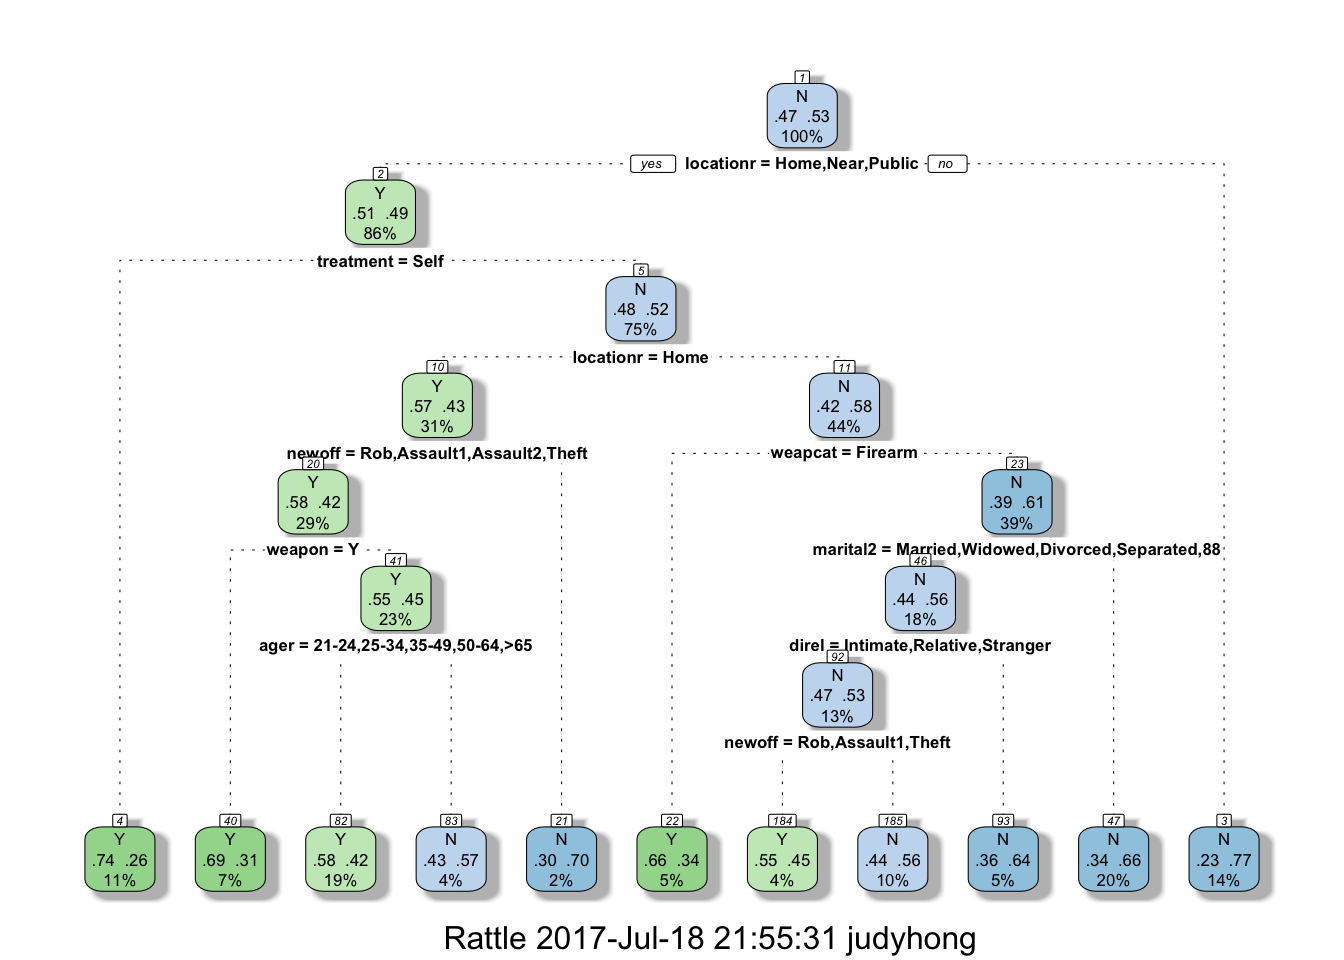
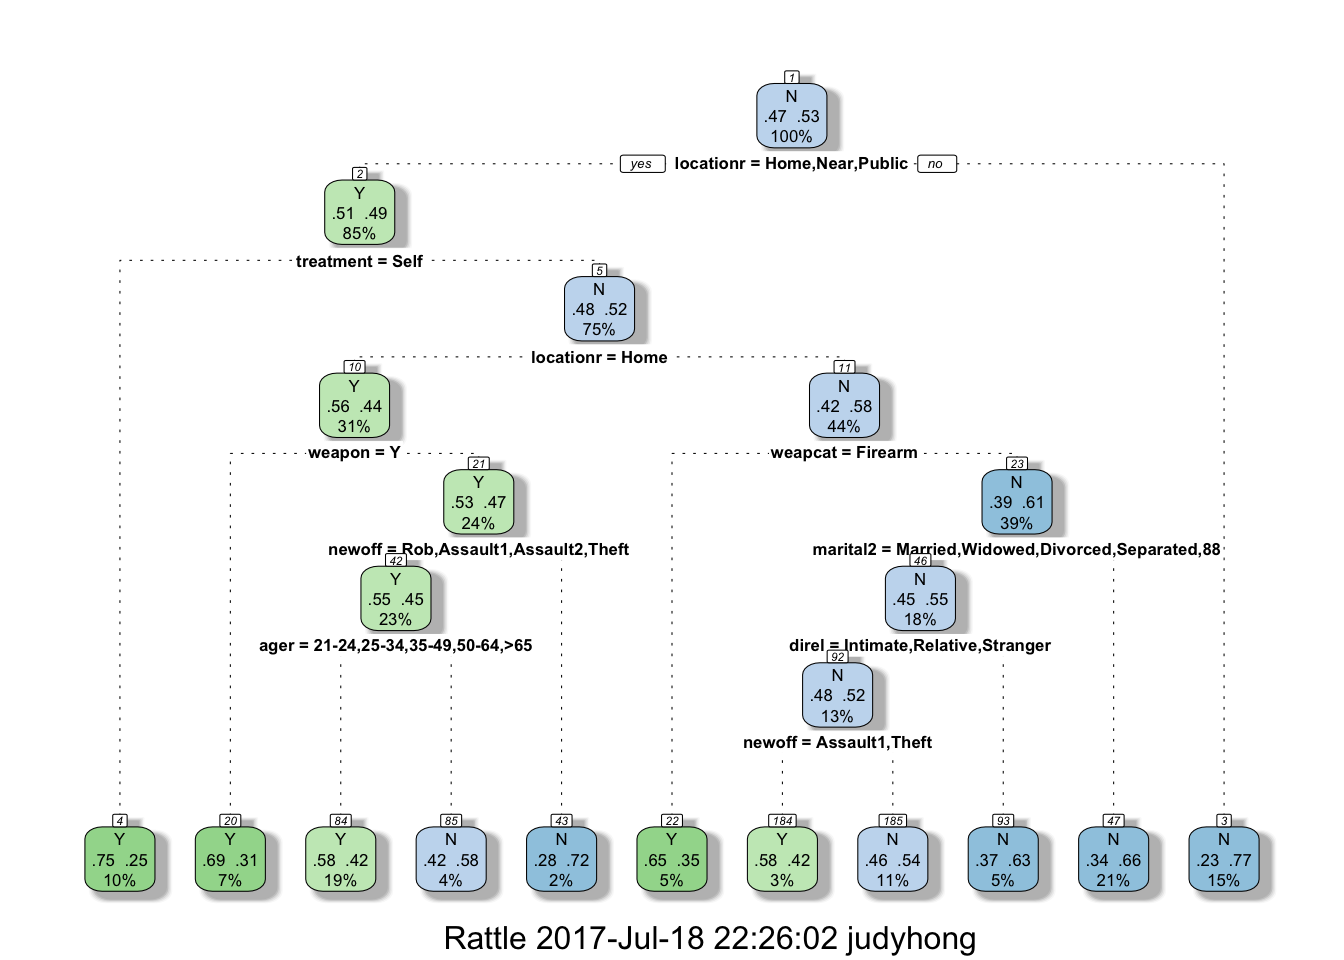
More changes

diff --git a/content/post/2017-07-18-police-yay-or-nay.html b/content/post/2017-07-18-police-yay-or-nay.html
@@ -1,5 +1,12 @@
-<!-- BLOGDOWN-HEAD -->
-<!-- /BLOGDOWN-HEAD -->
+---
+title: 'Police: Yay or Nay?'
+author: ~
+date: '2017-07-18'
+slug: police-yay-or-nay
+categories: ["Projects"]
+tags: []
+---
+
 
 
 <p>Fans of anime will be familiar with Gen Urobuchi’s <em>Psycho-Pass</em>. In an authoritarian future dystopia, aggregated personality data and background information are used to gauge the probability of a citizen committing a crime. With the help of omnipresent public sensors that continuously scan the mental states of every passing citizen, authorities are alerted whenever excessive crime probability ratings are detected, whereafter officers are dispatched to make premature arrests. This concept can also be found in <em>Minority Report</em> (which i watched on the plane to Cape Town).</p>
@@ -23,7 +30,7 @@
 <div id="explanatory-analysis" class="section level1">
 <h1>Explanatory Analysis</h1>
 <p>I begin by plotting each explanatory variable as a function of <strong>notify</strong>.</p>
-<p><img src="2017-07-18-police-yay-or-nay_files/figure-html/unnamed-chunk-2-1.png" width="672" /><img src="2017-07-18-police-yay-or-nay_files/figure-html/unnamed-chunk-2-2.png" width="672" /><img src="2017-07-18-police-yay-or-nay_files/figure-html/unnamed-chunk-2-3.png" width="672" /><img src="2017-07-18-police-yay-or-nay_files/figure-html/unnamed-chunk-2-4.png" width="672" /><img src="2017-07-18-police-yay-or-nay_files/figure-html/unnamed-chunk-2-5.png" width="672" /><img src="2017-07-18-police-yay-or-nay_files/figure-html/unnamed-chunk-2-6.png" width="672" /><img src="2017-07-18-police-yay-or-nay_files/figure-html/unnamed-chunk-2-7.png" width="672" /><img src="2017-07-18-police-yay-or-nay_files/figure-html/unnamed-chunk-2-8.png" width="672" /><img src="2017-07-18-police-yay-or-nay_files/figure-html/unnamed-chunk-2-9.png" width="672" /><img src="2017-07-18-police-yay-or-nay_files/figure-html/unnamed-chunk-2-10.png" width="672" /><img src="2017-07-18-police-yay-or-nay_files/figure-html/unnamed-chunk-2-11.png" width="672" /><img src="2017-07-18-police-yay-or-nay_files/figure-html/unnamed-chunk-2-12.png" width="672" /><img src="2017-07-18-police-yay-or-nay_files/figure-html/unnamed-chunk-2-13.png" width="672" /><img src="2017-07-18-police-yay-or-nay_files/figure-html/unnamed-chunk-2-14.png" width="672" /><img src="2017-07-18-police-yay-or-nay_files/figure-html/unnamed-chunk-2-15.png" width="672" /><img src="2017-07-18-police-yay-or-nay_files/figure-html/unnamed-chunk-2-16.png" width="672" /><img src="2017-07-18-police-yay-or-nay_files/figure-html/unnamed-chunk-2-17.png" width="672" /><img src="2017-07-18-police-yay-or-nay_files/figure-html/unnamed-chunk-2-18.png" width="672" /><img src="2017-07-18-police-yay-or-nay_files/figure-html/unnamed-chunk-2-19.png" width="672" /></p>
+<p><img src="/post/2017-07-18-police-yay-or-nay_files/figure-html/unnamed-chunk-2-1.png" width="672" /><img src="/post/2017-07-18-police-yay-or-nay_files/figure-html/unnamed-chunk-2-2.png" width="672" /><img src="/post/2017-07-18-police-yay-or-nay_files/figure-html/unnamed-chunk-2-3.png" width="672" /><img src="/post/2017-07-18-police-yay-or-nay_files/figure-html/unnamed-chunk-2-4.png" width="672" /><img src="/post/2017-07-18-police-yay-or-nay_files/figure-html/unnamed-chunk-2-5.png" width="672" /><img src="/post/2017-07-18-police-yay-or-nay_files/figure-html/unnamed-chunk-2-6.png" width="672" /><img src="/post/2017-07-18-police-yay-or-nay_files/figure-html/unnamed-chunk-2-7.png" width="672" /><img src="/post/2017-07-18-police-yay-or-nay_files/figure-html/unnamed-chunk-2-8.png" width="672" /><img src="/post/2017-07-18-police-yay-or-nay_files/figure-html/unnamed-chunk-2-9.png" width="672" /><img src="/post/2017-07-18-police-yay-or-nay_files/figure-html/unnamed-chunk-2-10.png" width="672" /><img src="/post/2017-07-18-police-yay-or-nay_files/figure-html/unnamed-chunk-2-11.png" width="672" /><img src="/post/2017-07-18-police-yay-or-nay_files/figure-html/unnamed-chunk-2-12.png" width="672" /><img src="/post/2017-07-18-police-yay-or-nay_files/figure-html/unnamed-chunk-2-13.png" width="672" /><img src="/post/2017-07-18-police-yay-or-nay_files/figure-html/unnamed-chunk-2-14.png" width="672" /><img src="/post/2017-07-18-police-yay-or-nay_files/figure-html/unnamed-chunk-2-15.png" width="672" /><img src="/post/2017-07-18-police-yay-or-nay_files/figure-html/unnamed-chunk-2-16.png" width="672" /><img src="/post/2017-07-18-police-yay-or-nay_files/figure-html/unnamed-chunk-2-17.png" width="672" /><img src="/post/2017-07-18-police-yay-or-nay_files/figure-html/unnamed-chunk-2-18.png" width="672" /><img src="/post/2017-07-18-police-yay-or-nay_files/figure-html/unnamed-chunk-2-19.png" width="672" /></p>
 <p>It appears that all the explanatory variables have some influence on <strong>notify</strong> except for <strong>popsize</strong>, <strong>newcrime</strong> and <strong>year</strong>. These variables will be excluded from all subsequent analyses.</p>
 </div>
 <div id="hypothesis" class="section level1">
@@ -51,95 +58,95 @@ summary(fit)</code></pre>
 ## 
 ## Deviance Residuals: 
 ##     Min       1Q   Median       3Q      Max  
-## -2.3449  -1.0755   0.5532   1.0270   2.3378  
+## -2.3303  -1.0819   0.5588   1.0285   2.3462  
 ## 
 ## Coefficients: (2 not defined because of singularities)
 ##                     Estimate Std. Error z value Pr(&gt;|z|)    
-## (Intercept)         1.551826   0.160217   9.686  &lt; 2e-16 ***
-## genderFemale       -0.271018   0.034549  -7.844 4.35e-15 ***
-## race1rBlack        -0.153335   0.050242  -3.052  0.00227 ** 
-## race1rOther         0.199078   0.072623   2.741  0.00612 ** 
-## ager15-17          -0.380550   0.073480  -5.179 2.23e-07 ***
-## ager18-20          -0.372987   0.077960  -4.784 1.72e-06 ***
-## ager21-24          -0.534028   0.078004  -6.846 7.58e-12 ***
-## ager25-34          -0.761969   0.073702 -10.339  &lt; 2e-16 ***
-## ager35-49          -0.698626   0.076073  -9.184  &lt; 2e-16 ***
-## ager50-64          -0.597322   0.085280  -7.004 2.48e-12 ***
-## ager&gt;65            -0.461164   0.127257  -3.624  0.00029 ***
-## marital2Married    -0.300153   0.049520  -6.061 1.35e-09 ***
-## marital2Widowed    -0.314888   0.130291  -2.417  0.01566 *  
-## marital2Divorced   -0.174928   0.058271  -3.002  0.00268 ** 
-## marital2Separated   0.072271   0.075020   0.963  0.33537    
-## marital288         -0.582028   0.308865  -1.884  0.05951 .  
-## hincome7500-14999  -0.047129   0.064568  -0.730  0.46544    
-## hincome15000-24999  0.137027   0.063043   2.174  0.02974 *  
-## hincome25000-34999  0.003229   0.065072   0.050  0.96042    
-## hincome35000-49999 -0.040154   0.064106  -0.626  0.53107    
-## hincome50000-74999  0.077727   0.066129   1.175  0.23984    
-## hincome&gt;75000       0.116189   0.066452   1.748  0.08038 .  
-## regionMidwest      -0.047333   0.051530  -0.919  0.35834    
-## regionSouth        -0.106186   0.049434  -2.148  0.03171 *  
-## regionWest          0.062218   0.051024   1.219  0.22269    
-## msaSuburban        -0.118969   0.035335  -3.367  0.00076 ***
-## msaRural           -0.125085   0.051750  -2.417  0.01565 *  
-## direlRelative      -0.098923   0.072447  -1.365  0.17211    
-## direlAcquain       -0.035553   0.055657  -0.639  0.52296    
-## direlStranger      -0.299170   0.058404  -5.122 3.02e-07 ***
-## weaponN             0.232098   0.093646   2.478  0.01320 *  
-## weapcatFirearm     -0.652598   0.079664  -8.192 2.57e-16 ***
-## weapcatKnife       -0.019816   0.080091  -0.247  0.80458    
+## (Intercept)         1.681846   0.160513  10.478  &lt; 2e-16 ***
+## genderFemale       -0.244093   0.034467  -7.082 1.42e-12 ***
+## race1rBlack        -0.155207   0.050206  -3.091  0.00199 ** 
+## race1rOther         0.213451   0.071863   2.970  0.00298 ** 
+## ager15-17          -0.418004   0.073751  -5.668 1.45e-08 ***
+## ager18-20          -0.419685   0.077751  -5.398 6.75e-08 ***
+## ager21-24          -0.553356   0.078080  -7.087 1.37e-12 ***
+## ager25-34          -0.811630   0.073532 -11.038  &lt; 2e-16 ***
+## ager35-49          -0.731066   0.075850  -9.638  &lt; 2e-16 ***
+## ager50-64          -0.646124   0.084493  -7.647 2.06e-14 ***
+## ager&gt;65            -0.566580   0.124971  -4.534 5.80e-06 ***
+## marital2Married    -0.329264   0.049152  -6.699 2.10e-11 ***
+## marital2Widowed    -0.340034   0.128091  -2.655  0.00794 ** 
+## marital2Divorced   -0.179173   0.057941  -3.092  0.00199 ** 
+## marital2Separated   0.105011   0.074931   1.401  0.16108    
+## marital288         -0.604095   0.301250  -2.005  0.04493 *  
+## hincome7500-14999  -0.061207   0.064228  -0.953  0.34061    
+## hincome15000-24999  0.134294   0.062912   2.135  0.03279 *  
+## hincome25000-34999  0.001899   0.065167   0.029  0.97675    
+## hincome35000-49999 -0.023227   0.064174  -0.362  0.71740    
+## hincome50000-74999  0.062432   0.066031   0.945  0.34441    
+## hincome&gt;75000       0.127329   0.066416   1.917  0.05522 .  
+## regionMidwest      -0.054561   0.051488  -1.060  0.28929    
+## regionSouth        -0.093881   0.049452  -1.898  0.05764 .  
+## regionWest          0.043324   0.050901   0.851  0.39468    
+## msaSuburban        -0.100502   0.035318  -2.846  0.00443 ** 
+## msaRural           -0.146621   0.051638  -2.839  0.00452 ** 
+## direlRelative      -0.006112   0.072953  -0.084  0.93324    
+## direlAcquain       -0.046835   0.055944  -0.837  0.40250    
+## direlStranger      -0.318311   0.058582  -5.434 5.52e-08 ***
+## weaponN             0.131589   0.094475   1.393  0.16367    
+## weapcatFirearm     -0.668823   0.079689  -8.393  &lt; 2e-16 ***
+## weapcatKnife       -0.068536   0.080300  -0.854  0.39338    
 ## weapcatOther              NA         NA      NA       NA    
-## newoffRob          -1.097637   0.096911 -11.326  &lt; 2e-16 ***
-## newoffAssault1     -0.968889   0.108995  -8.889  &lt; 2e-16 ***
-## newoffAssault2     -0.767632   0.080808  -9.499  &lt; 2e-16 ***
-## newoffTheft        -0.956148   0.150990  -6.333 2.41e-10 ***
-## injuryY            -1.263060   0.054802 -23.048  &lt; 2e-16 ***
-## treatmentY          0.866081   0.063665  13.604  &lt; 2e-16 ***
+## newoffRob          -1.075517   0.097327 -11.051  &lt; 2e-16 ***
+## newoffAssault1     -1.023701   0.109611  -9.339  &lt; 2e-16 ***
+## newoffAssault2     -0.770786   0.080947  -9.522  &lt; 2e-16 ***
+## newoffTheft        -0.980545   0.150011  -6.536 6.30e-11 ***
+## injuryY            -1.287219   0.054942 -23.429  &lt; 2e-16 ***
+## treatmentY          0.894670   0.063915  13.998  &lt; 2e-16 ***
 ## treatmentSelf             NA         NA      NA       NA    
-## locationrNear       0.528345   0.056266   9.390  &lt; 2e-16 ***
-## locationrPublic     0.618025   0.041508  14.889  &lt; 2e-16 ***
-## locationrSchool     1.146434   0.064365  17.811  &lt; 2e-16 ***
+## locationrNear       0.492533   0.056302   8.748  &lt; 2e-16 ***
+## locationrPublic     0.637307   0.041678  15.291  &lt; 2e-16 ***
+## locationrSchool     1.118915   0.063789  17.541  &lt; 2e-16 ***
 ## ---
 ## Signif. codes:  0 &#39;***&#39; 0.001 &#39;**&#39; 0.01 &#39;*&#39; 0.05 &#39;.&#39; 0.1 &#39; &#39; 1
 ## 
 ## (Dispersion parameter for binomial family taken to be 1)
 ## 
-##     Null deviance: 26210  on 18946  degrees of freedom
-## Residual deviance: 23378  on 18905  degrees of freedom
-## AIC: 23462
+##     Null deviance: 26201  on 18946  degrees of freedom
+## Residual deviance: 23410  on 18905  degrees of freedom
+## AIC: 23494
 ## 
 ## Number of Fisher Scoring iterations: 4</code></pre>
 <p>Not all the factors are relevant to this model, so I fit a more parisimonious model using stepwise regression:</p>
 <pre class="r"><code>fit.red = stepAIC(fit, direction = &quot;both&quot;)</code></pre>
-<pre><code>## Start:  AIC=23462.17
+<pre><code>## Start:  AIC=23493.79
 ## notify ~ gender + race1r + ager + marital2 + hincome + region + 
 ##     msa + direl + weapon + weapcat + newoff + injury + treatment + 
 ##     locationr
 ## 
 ## 
-## Step:  AIC=23462.17
+## Step:  AIC=23493.79
 ## notify ~ gender + race1r + ager + marital2 + hincome + region + 
 ##     msa + direl + weapon + weapcat + newoff + treatment + locationr
 ## 
 ## 
-## Step:  AIC=23462.17
+## Step:  AIC=23493.79
 ## notify ~ gender + race1r + ager + marital2 + hincome + region + 
 ##     msa + direl + weapcat + newoff + treatment + locationr
 ## 
 ##             Df Deviance   AIC
-## &lt;none&gt;            23378 23462
-## - hincome    6    23398 23470
-## - msa        2    23391 23471
-## - region     3    23395 23473
-## - race1r     2    23397 23477
-## - marital2   5    23430 23504
-## - direl      3    23430 23508
-## - gender     1    23440 23522
-## - ager       7    23502 23572
-## - weapcat    3    23503 23581
-## - newoff     4    23516 23592
-## - locationr  3    23790 23868
-## - treatment  2    23976 24056</code></pre>
+## &lt;none&gt;            23410 23494
+## - region     3    23422 23500
+## - msa        2    23421 23501
+## - hincome    6    23430 23502
+## - race1r     2    23430 23510
+## - gender     1    23460 23542
+## - direl      3    23469 23547
+## - marital2   5    23475 23549
+## - weapcat    3    23523 23601
+## - ager       7    23545 23615
+## - newoff     4    23545 23621
+## - locationr  3    23818 23896
+## - treatment  2    24028 24108</code></pre>
 <pre class="r"><code>summary(fit.red)</code></pre>
 <pre><code>## 
 ## Call:
@@ -149,60 +156,60 @@ summary(fit)</code></pre>
 ## 
 ## Deviance Residuals: 
 ##     Min       1Q   Median       3Q      Max  
-## -2.3449  -1.0755   0.5532   1.0270   2.3378  
+## -2.3303  -1.0819   0.5588   1.0285   2.3462  
 ## 
 ## Coefficients:
 ##                     Estimate Std. Error z value Pr(&gt;|z|)    
-## (Intercept)         1.783924   0.133507  13.362  &lt; 2e-16 ***
-## genderFemale       -0.271018   0.034549  -7.844 4.35e-15 ***
-## race1rBlack        -0.153335   0.050242  -3.052  0.00227 ** 
-## race1rOther         0.199078   0.072623   2.741  0.00612 ** 
-## ager15-17          -0.380550   0.073480  -5.179 2.23e-07 ***
-## ager18-20          -0.372987   0.077960  -4.784 1.72e-06 ***
-## ager21-24          -0.534028   0.078004  -6.846 7.58e-12 ***
-## ager25-34          -0.761969   0.073702 -10.339  &lt; 2e-16 ***
-## ager35-49          -0.698626   0.076073  -9.184  &lt; 2e-16 ***
-## ager50-64          -0.597322   0.085280  -7.004 2.48e-12 ***
-## ager&gt;65            -0.461164   0.127257  -3.624  0.00029 ***
-## marital2Married    -0.300153   0.049520  -6.061 1.35e-09 ***
-## marital2Widowed    -0.314888   0.130291  -2.417  0.01566 *  
-## marital2Divorced   -0.174928   0.058271  -3.002  0.00268 ** 
-## marital2Separated   0.072271   0.075020   0.963  0.33537    
-## marital288         -0.582028   0.308865  -1.884  0.05951 .  
-## hincome7500-14999  -0.047129   0.064568  -0.730  0.46544    
-## hincome15000-24999  0.137027   0.063043   2.174  0.02974 *  
-## hincome25000-34999  0.003229   0.065072   0.050  0.96042    
-## hincome35000-49999 -0.040154   0.064106  -0.626  0.53107    
-## hincome50000-74999  0.077727   0.066129   1.175  0.23984    
-## hincome&gt;75000       0.116189   0.066452   1.748  0.08038 .  
-## regionMidwest      -0.047333   0.051530  -0.919  0.35834    
-## regionSouth        -0.106186   0.049434  -2.148  0.03171 *  
-## regionWest          0.062218   0.051024   1.219  0.22269    
-## msaSuburban        -0.118969   0.035335  -3.367  0.00076 ***
-## msaRural           -0.125085   0.051750  -2.417  0.01565 *  
-## direlRelative      -0.098923   0.072447  -1.365  0.17211    
-## direlAcquain       -0.035553   0.055657  -0.639  0.52296    
-## direlStranger      -0.299170   0.058404  -5.122 3.02e-07 ***
-## weapcatFirearm     -0.884696   0.090899  -9.733  &lt; 2e-16 ***
-## weapcatKnife       -0.251914   0.093934  -2.682  0.00732 ** 
-## weapcatOther       -0.232098   0.093646  -2.478  0.01320 *  
-## newoffRob          -1.097637   0.096911 -11.326  &lt; 2e-16 ***
-## newoffAssault1     -0.968889   0.108995  -8.889  &lt; 2e-16 ***
-## newoffAssault2     -0.767632   0.080808  -9.499  &lt; 2e-16 ***
-## newoffTheft        -0.956148   0.150990  -6.333 2.41e-10 ***
-## treatmentY         -0.396980   0.044451  -8.931  &lt; 2e-16 ***
-## treatmentSelf      -1.263060   0.054802 -23.048  &lt; 2e-16 ***
-## locationrNear       0.528345   0.056266   9.390  &lt; 2e-16 ***
-## locationrPublic     0.618025   0.041508  14.889  &lt; 2e-16 ***
-## locationrSchool     1.146434   0.064365  17.811  &lt; 2e-16 ***
+## (Intercept)         1.813434   0.133047  13.630  &lt; 2e-16 ***
+## genderFemale       -0.244093   0.034467  -7.082 1.42e-12 ***
+## race1rBlack        -0.155207   0.050206  -3.091  0.00199 ** 
+## race1rOther         0.213451   0.071863   2.970  0.00298 ** 
+## ager15-17          -0.418004   0.073751  -5.668 1.45e-08 ***
+## ager18-20          -0.419685   0.077751  -5.398 6.75e-08 ***
+## ager21-24          -0.553356   0.078080  -7.087 1.37e-12 ***
+## ager25-34          -0.811630   0.073532 -11.038  &lt; 2e-16 ***
+## ager35-49          -0.731066   0.075850  -9.638  &lt; 2e-16 ***
+## ager50-64          -0.646124   0.084493  -7.647 2.06e-14 ***
+## ager&gt;65            -0.566580   0.124971  -4.534 5.80e-06 ***
+## marital2Married    -0.329264   0.049152  -6.699 2.10e-11 ***
+## marital2Widowed    -0.340034   0.128091  -2.655  0.00794 ** 
+## marital2Divorced   -0.179173   0.057941  -3.092  0.00199 ** 
+## marital2Separated   0.105011   0.074931   1.401  0.16108    
+## marital288         -0.604095   0.301250  -2.005  0.04493 *  
+## hincome7500-14999  -0.061207   0.064228  -0.953  0.34061    
+## hincome15000-24999  0.134294   0.062912   2.135  0.03279 *  
+## hincome25000-34999  0.001899   0.065167   0.029  0.97675    
+## hincome35000-49999 -0.023227   0.064174  -0.362  0.71740    
+## hincome50000-74999  0.062432   0.066031   0.945  0.34441    
+## hincome&gt;75000       0.127329   0.066416   1.917  0.05522 .  
+## regionMidwest      -0.054561   0.051488  -1.060  0.28929    
+## regionSouth        -0.093881   0.049452  -1.898  0.05764 .  
+## regionWest          0.043324   0.050901   0.851  0.39468    
+## msaSuburban        -0.100502   0.035318  -2.846  0.00443 ** 
+## msaRural           -0.146621   0.051638  -2.839  0.00452 ** 
+## direlRelative      -0.006112   0.072953  -0.084  0.93324    
+## direlAcquain       -0.046835   0.055944  -0.837  0.40250    
+## direlStranger      -0.318311   0.058582  -5.434 5.52e-08 ***
+## weapcatFirearm     -0.800412   0.090762  -8.819  &lt; 2e-16 ***
+## weapcatKnife       -0.200125   0.094535  -2.117  0.03426 *  
+## weapcatOther       -0.131589   0.094475  -1.393  0.16367    
+## newoffRob          -1.075517   0.097327 -11.051  &lt; 2e-16 ***
+## newoffAssault1     -1.023701   0.109611  -9.339  &lt; 2e-16 ***
+## newoffAssault2     -0.770786   0.080947  -9.522  &lt; 2e-16 ***
+## newoffTheft        -0.980545   0.150011  -6.536 6.30e-11 ***
+## treatmentY         -0.392549   0.044601  -8.801  &lt; 2e-16 ***
+## treatmentSelf      -1.287219   0.054942 -23.429  &lt; 2e-16 ***
+## locationrNear       0.492533   0.056302   8.748  &lt; 2e-16 ***
+## locationrPublic     0.637307   0.041678  15.291  &lt; 2e-16 ***
+## locationrSchool     1.118915   0.063789  17.541  &lt; 2e-16 ***
 ## ---
 ## Signif. codes:  0 &#39;***&#39; 0.001 &#39;**&#39; 0.01 &#39;*&#39; 0.05 &#39;.&#39; 0.1 &#39; &#39; 1
 ## 
 ## (Dispersion parameter for binomial family taken to be 1)
 ## 
-##     Null deviance: 26210  on 18946  degrees of freedom
-## Residual deviance: 23378  on 18905  degrees of freedom
-## AIC: 23462
+##     Null deviance: 26201  on 18946  degrees of freedom
+## Residual deviance: 23410  on 18905  degrees of freedom
+## AIC: 23494
 ## 
 ## Number of Fisher Scoring iterations: 4</code></pre>
 <p>Assessing model accuracy:</p>
@@ -211,8 +218,8 @@ test.class = ifelse(test.prediction &gt; 0.5, &quot;N&quot;, &quot;Y&quot;)
 table(test.class, data.test$notify) #read: horizontal label is truth, vertical label predicted</code></pre>
 <pre><code>##           
 ## test.class    Y    N
-##          N  383 1132
-##          Y 1863 1359</code></pre>
+##          N  390 1090
+##          Y 1894 1363</code></pre>
 <pre class="r"><code>(Accuracy = (1842 + 1113) / (1842 + 1113 + 376 + 1406))</code></pre>
 <pre><code>## [1] 0.6238125</code></pre>
 <p>We see that the accuracy of this model is 0.6238125. In the final model, all explanatory variables were included except <strong>injury</strong> and <strong>weapon</strong>.</p>
@@ -229,28 +236,28 @@ table(test.class, data.test$notify) #read: horizontal label is truth, vertical l
 ## 
 ## No pre-processing
 ## Resampling: Cross-Validated (10 fold, repeated 3 times) 
-## Summary of sample sizes: 21315, 21316, 21316, 21316, 21316, 21316, ... 
+## Summary of sample sizes: 21315, 21316, 21316, 21316, 21315, 21315, ... 
 ## Resampling results across tuning parameters:
 ## 
 ##   cp           Accuracy   Kappa     
-##   0.002678093  0.6430503  0.28054187
-##   0.030842707  0.6183641  0.22204262
-##   0.056299470  0.5618959  0.08447629
+##   0.002678093  0.6419527  0.27790589
+##   0.030842707  0.6165770  0.21756106
+##   0.056299470  0.5582651  0.07344444
 ## 
 ## Accuracy was used to select the optimal model using  the largest value.
 ## The final value used for the model was cp = 0.002678093.</code></pre>
 <p>Using cross-validation, we see that an good complexity level to use in fitting a decision tree is cp = 0.002678093. I refit the decision tree:</p>
 <pre class="r"><code>fit.tree.2 = rpart(names.totest, data = data.train, control = rpart.control(cp = 0.002678093198))
 fancyRpartPlot(fit.tree.2)</code></pre>
-<p><img src="2017-07-18-police-yay-or-nay_files/figure-html/unnamed-chunk-8-1.png" width="672" /></p>
+<p><img src="/post/2017-07-18-police-yay-or-nay_files/figure-html/unnamed-chunk-8-1.png" width="672" /></p>
 <p>Assessing accuracy:</p>
 <pre class="r"><code>prediction.2 = predict(fit.tree.2, data.test)
 test.class.2 = ifelse(prediction.2[, 1] &gt; 0.5, &quot;Y&quot;, &quot;N&quot;)
 table(test.class.2, data.test$notify)</code></pre>
 <pre><code>##             
 ## test.class.2    Y    N
-##            N  886 1686
-##            Y 1360  805</code></pre>
+##            N  917 1710
+##            Y 1367  743</code></pre>
 <pre class="r"><code>(Accuracy.2 = (1328 + 1751) / (1328 + 1751 + 890 + 768))</code></pre>
 <pre><code>## [1] 0.6499894</code></pre>
 <p>The decision tree performs only marginally better than logistic regression, with accuracy at 0.6499894. Not much meaningful information can be drawn from the way outcomes split.</p>

diff --git a/content/post/2017-07-18-what-time-is-it-over-there.html b/content/post/2017-07-18-what-time-is-it-over-there.html
@@ -1,0 +1,19 @@
+---
+title: What time is it over there?
+author: ~
+date: '2017-07-18'
+slug: what-time-is-it-over-there
+categories: ["Projects"]
+tags: []
+---
+
+
+
+<div id="building-a-r-package" class="section level1">
+<h1>Building a R-package</h1>
+<p>Packages are a robust and convenient way of grouping together R code, documentation and data. There are a number of good reasons for building a package but foremost among those are code reuse and code sharing (which is also an important way to establish a reputation in the R community).</p>
+</div>
+<div id="our-project-timezone-and-flight-time-calculator" class="section level1">
+<h1>Our project: timezone and flight time calculator</h1>
+<p>Ever since going overseas, I’ve had to rely on the</p>
+</div>
